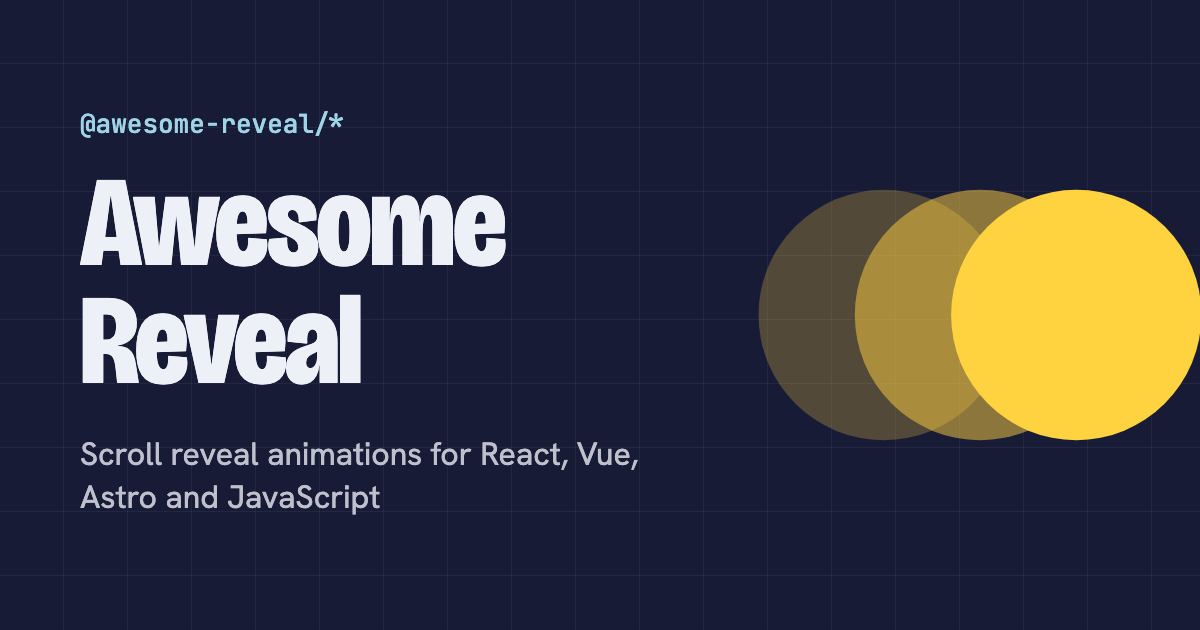
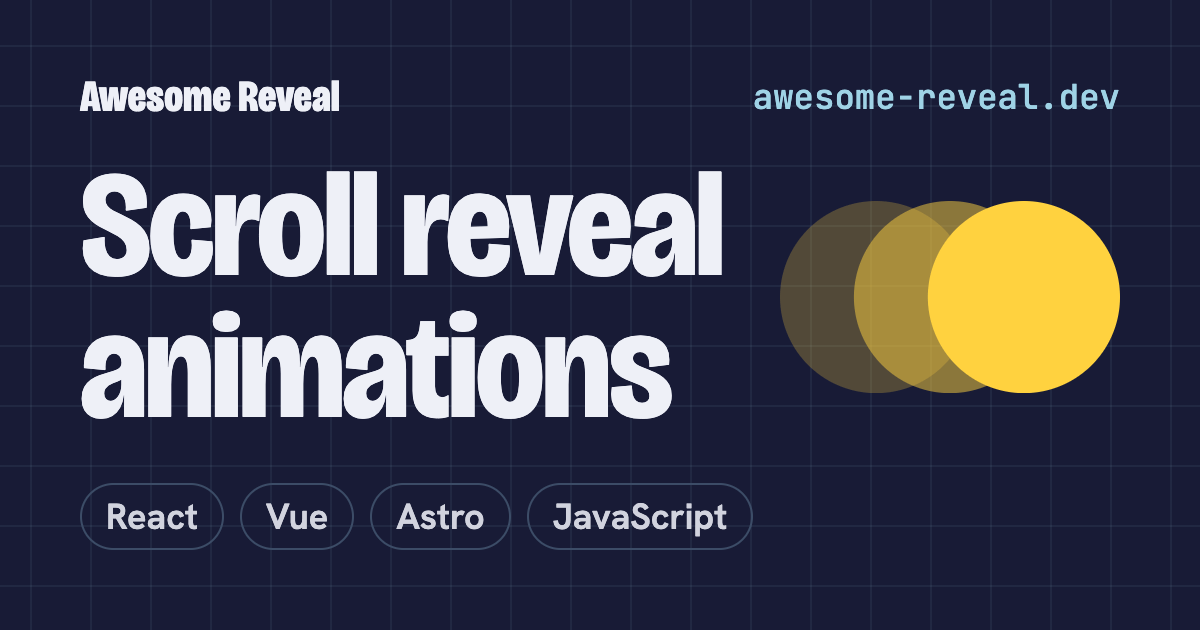
feat: redesign the OG image for the ink theme (#35)

diff --git a/.claude/skills/updating-og-image/assets/og-image.html b/.claude/skills/updating-og-image/assets/og-image.html
@@ -1,0 +1,143 @@
+<!doctype html>
+<html lang="en">
+  <head>
+    <meta charset="utf-8" />
+    <link
+      rel="stylesheet"
+      href="https://fonts.googleapis.com/css2?family=Bricolage+Grotesque:opsz,wdth,wght@12..96,75..100,200..800&family=Hanken+Grotesk:wght@400..700&family=JetBrains+Mono:wght@400..700&display=block"
+    />
+    <style>
+      :root {
+        --ink: #181b36;
+        --paper: #eef0f7;
+        --pencil: #9fd3e6;
+        --marker: #ffd23f;
+        --pad: 80px;
+        --cell: 60px;
+      }
+
+      * {
+        margin: 0;
+        box-sizing: border-box;
+      }
+
+      html,
+      body {
+        width: 1200px;
+        height: 630px;
+        overflow: hidden;
+      }
+
+      body {
+        display: flex;
+        flex-direction: column;
+        justify-content: space-between;
+        padding: var(--pad);
+        background-color: var(--ink);
+        background-image:
+          linear-gradient(
+            color-mix(in oklab, var(--pencil) 7%, transparent) 2px,
+            transparent 2px
+          ),
+          linear-gradient(
+            90deg,
+            color-mix(in oklab, var(--pencil) 7%, transparent) 2px,
+            transparent 2px
+          );
+        background-size: var(--cell) var(--cell);
+        background-position: center;
+        color: var(--paper);
+        font-family: "Hanken Grotesk", sans-serif;
+      }
+
+      header {
+        display: flex;
+        align-items: center;
+        justify-content: space-between;
+      }
+
+      /* The ascenders of the wordmark rise 2px above the cap height. */
+      header {
+        margin-block-start: 2px;
+      }
+
+      header > * {
+        text-box: trim-both cap alphabetic;
+      }
+
+      .brand {
+        font-family: "Bricolage Grotesque", sans-serif;
+        font-size: 44px;
+        font-weight: 800;
+        font-stretch: 78%;
+        font-variation-settings: "opsz" 96;
+        letter-spacing: 0.01em;
+      }
+
+      .domain {
+        color: var(--pencil);
+        font-family: "JetBrains Mono", monospace;
+        font-size: 34px;
+        font-weight: 500;
+      }
+
+      main {
+        display: flex;
+        align-items: center;
+        justify-content: space-between;
+      }
+
+      .mark {
+        width: 340px;
+        color: var(--marker);
+      }
+
+      h1 {
+        font-family: "Bricolage Grotesque", sans-serif;
+        font-size: 150px;
+        font-weight: 750;
+        font-stretch: 85%;
+        line-height: 0.95;
+        letter-spacing: -0.02em;
+      }
+
+      ul {
+        display: flex;
+        gap: 16px;
+        padding: 0;
+        list-style: none;
+      }
+
+      li {
+        padding: 8px 24px;
+        border: 2px solid color-mix(in oklab, var(--pencil) 30%, var(--ink));
+        border-radius: 999px;
+        color: color-mix(in oklab, var(--paper) 88%, var(--ink));
+        font-size: 36px;
+        font-weight: 600;
+      }
+    </style>
+  </head>
+  <body>
+    <header>
+      <div class="brand">Awesome Reveal</div>
+      <span class="domain">awesome-reveal.dev</span>
+    </header>
+    <main>
+      <h1>Scroll reveal<br />animations</h1>
+      <svg class="mark" viewBox="72 152 368 208" aria-hidden="true">
+        <g fill="currentColor">
+          <circle cx="176" cy="256" r="104" opacity=".25" />
+          <circle cx="256" cy="256" r="104" opacity=".5" />
+          <circle cx="336" cy="256" r="104" />
+        </g>
+      </svg>
+    </main>
+    <ul>
+      <li>React</li>
+      <li>Vue</li>
+      <li>Astro</li>
+      <li>JavaScript</li>
+    </ul>
+  </body>
+</html>

diff --git a/.claude/skills/updating-og-image/SKILL.md b/.claude/skills/updating-og-image/SKILL.md
@@ -1,0 +1,22 @@
+---
+name: updating-og-image
+description: Renders the Open Graph image `public/og.png` from its HTML template and changes the image URL, so that social sites fetch the new image. Use when you change the OG image, or when the site name, the hero headline or the theme colors change.
+---
+
+# Update the OG image
+
+[`assets/og-image.html`](assets/og-image.html) is the source of `public/og.png`. It copies the tokens of `src/styles/theme.css` and the fonts of `astro.config.mjs`, because it renders outside Astro.
+
+1. Edit `assets/og-image.html`. Keep the constraints in [Constraints](#constraints).
+2. Run `${CLAUDE_SKILL_DIR}/scripts/render.sh`. It needs Google Chrome, `pngquant` and network access for the Google Fonts. When the PNG changes, the script increases the `?v=` query of the image URL in `astro.config.mjs`. Social sites cache the image by its URL, so each new image needs a new version.
+3. Look at `public/og.png` at full size. Then look at it at phone size: `sips -Z 360 public/og.png --out <scratchpad>/og-mobile.png`. All text must be readable at 360 px.
+4. Run `pnpm build`. Make sure that `og:image` in `dist/index.html` has the new `?v=`.
+
+Do not change `og.png` without `render.sh`: a new image with an old `?v=` stays hidden behind the cached image.
+
+## Constraints
+
+- Keep 1200×630 PNG, under 1 MB. Meta and LinkedIn show 1.91:1, and Meta does not list WebP for `og:image`.
+- Keep all content inside the padding, with equal space on each side. Measure it: `magick public/og.png -fuzz 12% -trim -format '%wx%h%O' info:`. X shows the card at 2:1 and crops about 15 px at the top and the bottom.
+- Keep the text large: a phone shows the card at about 30% of its size. X shows no title under the card, so the image must give the name and what the packages do.
+- If you change the size, also change `og:image:width` and `og:image:height` in `astro.config.mjs`.

diff --git a/.claude/rules/config/astro-config.md b/.claude/rules/config/astro-config.md
@@ -6,5 +6,5 @@ paths:
 # Astro config
 
 - The Starlight `title` shows on all pages, the archived versions included. Choose a title that also fits the archived packages.
-- The Open Graph image URL has a `?v=` query. Increase it when you replace `public/og.png`. Social sites cache an image by its URL, so they keep the old image until the URL changes. They show the new URL after they read the page again, and old shares keep the old image.
+- The Open Graph image URL has a `?v=` query, so social sites fetch a new image. The `updating-og-image` skill renders the image and increases the query. Do not change the query by hand.
 - Starlight 0.x can change the config shape in a minor version. When `astro check` reports a config error, read the Starlight changelog for that version.

diff --git a/CLAUDE.md b/CLAUDE.md
@@ -1,3 +1,3 @@
 @AGENTS.md
 
-Use the `updating-dependencies` skill to update packages, Node or pnpm, and the `archiving-docs-versions` skill to archive the docs of a major version.
+Use the `updating-dependencies` skill to update packages, Node or pnpm, the `archiving-docs-versions` skill to archive the docs of a major version, and the `updating-og-image` skill to change the OG image.
